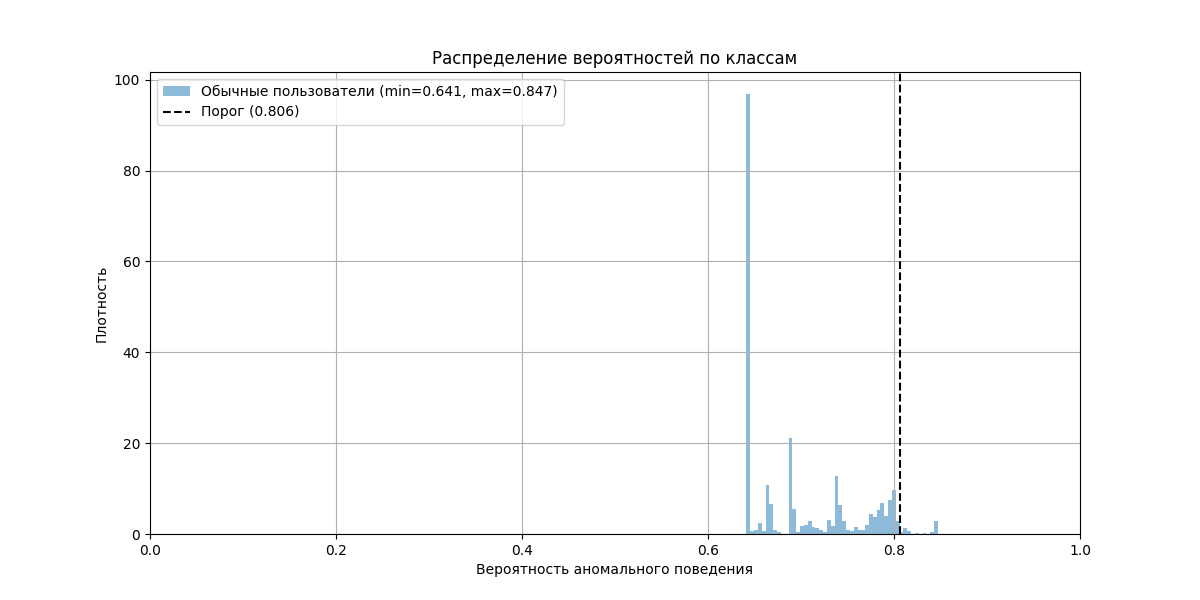
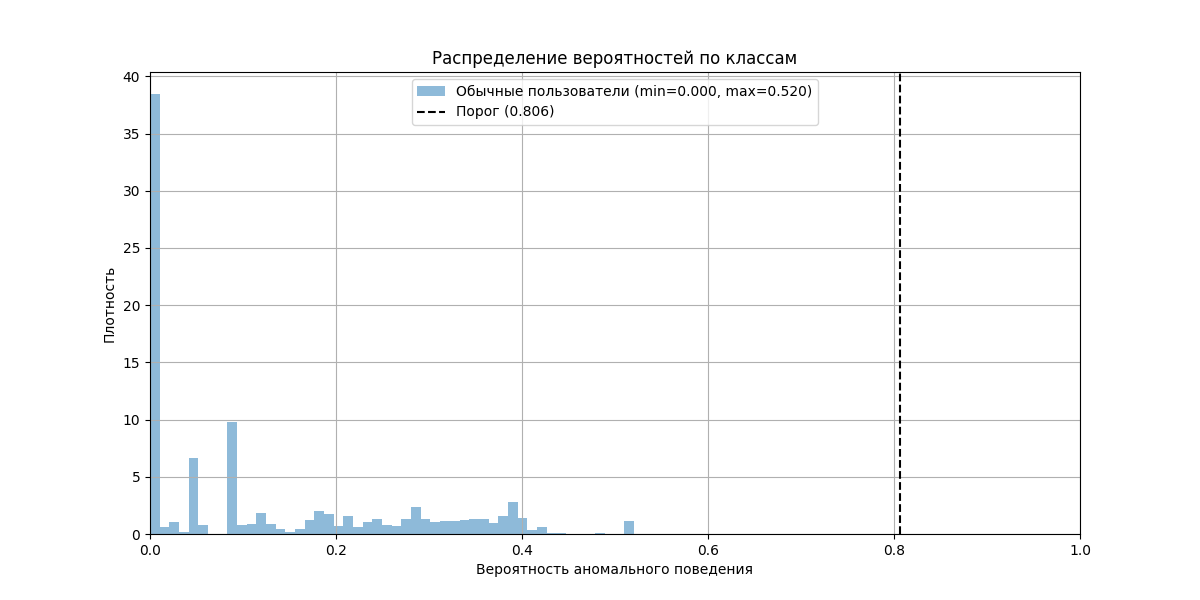
Улучшена система предсказаний детекторов

Changed region(s): [[0.0617, 0.12, 0.8942, 0.9], [0.4933, 0.87, 0.5242, 0.9]]

diff --git a/arch1/example.py b/arch1/example.py
@@ -15,7 +15,7 @@ import time
 import matplotlib.pyplot as plt
 
 # Глобальные константы
-ANOMALY_THRESHOLD = 0.806  # Пороговое значение вероятности для определения аномального поведения
+ANOMALY_THRESHOLD = 0.500  # Пороговое значение вероятности для определения аномального поведения
 DATASET = 'r2'  # Используемый датасет (r1, r2, r3.1)
 
 def separate(start='', symbol='=', end='\n', n=60):
@@ -37,11 +37,11 @@ def create_anomaly_detection_system():
     print("Настройка весов детекторов...")
     # Создаем веса для каждого детектора
     weights = {
-        'time_activity': 1.5,    # Максимальный вес для временных паттернов
-        'data_frequency': 1.8,   # Средний вес для частоты обращений
-        'data_volume': 1.2,      # Пониженный вес для объема данных
-        'resource_access': 0.4,  # Низкий вес для доступа к ресурсам
-        'file_activity': 0.6     # Минимальный вес для файловых операций
+        'time_activity': 1,    # Максимальный вес для временных паттернов
+        'data_frequency': 1,   # Средний вес для частоты обращений
+        'data_volume': 1,      # Пониженный вес для объема данных
+        'resource_access': 1,  # Низкий вес для доступа к ресурсам
+        'file_activity': 1     # Минимальный вес для файловых операций
     }
     
     # Создаем ансамбль

diff --git a/arch1/models/time_activity_detector.py b/arch1/models/time_activity_detector.py
@@ -1,5 +1,6 @@
 import numpy as np
 from sklearn.ensemble import IsolationForest
+from datetime import datetime
 from .base_model import AnomalyDetector
 
 class TimeActivityDetector(AnomalyDetector):
@@ -28,6 +29,30 @@ class TimeActivityDetector(AnomalyDetector):
         return self.model.predict(features)
         
     def predict_proba(self, X):
+        """
+        Вероятности аномалий
+        
+        Parameters:
+        -----------
+        X : pandas.DataFrame или numpy.ndarray
+            Данные для предсказания
+            
+        Returns:
+        --------
+        numpy.ndarray
+            Массив вероятностей аномальности в диапазоне [0, 1]
+        """
         features = self._prepare_features(X)
-        scores = -self.model.score_samples(features)
-        return scores / np.max(scores) if len(scores) > 0 else scores 
+        scores = -self.model.score_samples(features)  # Получаем сырые оценки
+        
+        if len(scores) > 0:
+            # Проверяем, есть ли разброс в оценках
+            score_range = scores.max() - scores.min()
+            if score_range > 0:
+                # Если есть разброс, нормализуем
+                scores_norm = (scores - scores.min()) / score_range
+            else:
+                # Если все оценки одинаковые, считаем их нормальными
+                scores_norm = np.zeros_like(scores)
+            return np.clip(scores_norm, 0, 1)  # Обрезаем на всякий случай
+        return scores 

diff --git a/arch1/models/geo_location_detector.py b/arch1/models/geo_location_detector.py
@@ -39,9 +39,33 @@ class GeoLocationDetector(AnomalyDetector):
         return self.model.predict(features)
         
     def predict_proba(self, X):
+        """
+        Вероятности аномалий
+        
+        Parameters:
+        -----------
+        X : pandas.DataFrame или numpy.ndarray
+            Данные для предсказания
+            
+        Returns:
+        --------
+        numpy.ndarray
+            Массив вероятностей аномальности в диапазоне [0, 1]
+        """
         features = self._prepare_features(X)
-        scores = -self.model.score_samples(features)
-        return scores / np.max(scores)
+        scores = -self.model.score_samples(features)  # Получаем сырые оценки
+        
+        if len(scores) > 0:
+            # Проверяем, есть ли разброс в оценках
+            score_range = scores.max() - scores.min()
+            if score_range > 0:
+                # Если есть разброс, нормализуем
+                scores_norm = (scores - scores.min()) / score_range
+            else:
+                # Если все оценки одинаковые, считаем их нормальными
+                scores_norm = np.zeros_like(scores)
+            return np.clip(scores_norm, 0, 1)  # Обрезаем на всякий случай
+        return scores
         
     def __del__(self):
         """Закрываем reader при удалении объекта"""

diff --git a/arch1/models/resource_access_detector.py b/arch1/models/resource_access_detector.py
@@ -33,6 +33,30 @@ class ResourceAccessDetector(AnomalyDetector):
         return self.model.predict(features)
         
     def predict_proba(self, X):
+        """
+        Вероятности аномалий
+        
+        Parameters:
+        -----------
+        X : pandas.DataFrame или numpy.ndarray
+            Данные для предсказания
+            
+        Returns:
+        --------
+        numpy.ndarray
+            Массив вероятностей аномальности в диапазоне [0, 1]
+        """
         features = self._prepare_features(X)
-        scores = -self.model.score_samples(features)
-        return scores / np.max(scores) if len(scores) > 0 else scores 
+        scores = -self.model.score_samples(features)  # Получаем сырые оценки
+        
+        if len(scores) > 0:
+            # Проверяем, есть ли разброс в оценках
+            score_range = scores.max() - scores.min()
+            if score_range > 0:
+                # Если есть разброс, нормализуем
+                scores_norm = (scores - scores.min()) / score_range
+            else:
+                # Если все оценки одинаковые, считаем их нормальными
+                scores_norm = np.zeros_like(scores)
+            return np.clip(scores_norm, 0, 1)  # Обрезаем на всякий случай
+        return scores 

diff --git a/arch1/models/data_frequency_detector.py b/arch1/models/data_frequency_detector.py
@@ -33,6 +33,30 @@ class DataFrequencyDetector(AnomalyDetector):
         return self.model.predict(features)
         
     def predict_proba(self, X):
+        """
+        Вероятности аномалий
+        
+        Parameters:
+        -----------
+        X : pandas.DataFrame или numpy.ndarray
+            Данные для предсказания
+            
+        Returns:
+        --------
+        numpy.ndarray
+            Массив вероятностей аномальности в диапазоне [0, 1]
+        """
         features = self._prepare_features(X)
-        scores = -self.model.score_samples(features)
-        return scores / np.max(scores) if len(scores) > 0 else scores 
+        scores = -self.model.score_samples(features)  # Получаем сырые оценки
+        
+        if len(scores) > 0:
+            # Проверяем, есть ли разброс в оценках
+            score_range = scores.max() - scores.min()
+            if score_range > 0:
+                # Если есть разброс, нормализуем
+                scores_norm = (scores - scores.min()) / score_range
+            else:
+                # Если все оценки одинаковые, считаем их нормальными
+                scores_norm = np.zeros_like(scores)
+            return np.clip(scores_norm, 0, 1)  # Обрезаем на всякий случай
+        return scores 

diff --git a/arch1/models/data_volume_detector.py b/arch1/models/data_volume_detector.py
@@ -33,6 +33,30 @@ class DataVolumeDetector(AnomalyDetector):
         return self.model.predict(features)
         
     def predict_proba(self, X):
+        """
+        Вероятности аномалий
+        
+        Parameters:
+        -----------
+        X : pandas.DataFrame или numpy.ndarray
+            Данные для предсказания
+            
+        Returns:
+        --------
+        numpy.ndarray
+            Массив вероятностей аномальности в диапазоне [0, 1]
+        """
         features = self._prepare_features(X)
-        scores = -self.model.score_samples(features)
-        return scores / np.max(scores) if len(scores) > 0 else scores 
+        scores = -self.model.score_samples(features)  # Получаем сырые оценки
+        
+        if len(scores) > 0:
+            # Проверяем, есть ли разброс в оценках
+            score_range = scores.max() - scores.min()
+            if score_range > 0:
+                # Если есть разброс, нормализуем
+                scores_norm = (scores - scores.min()) / score_range
+            else:
+                # Если все оценки одинаковые, считаем их нормальными
+                scores_norm = np.zeros_like(scores)
+            return np.clip(scores_norm, 0, 1)  # Обрезаем на всякий случай
+        return scores 
